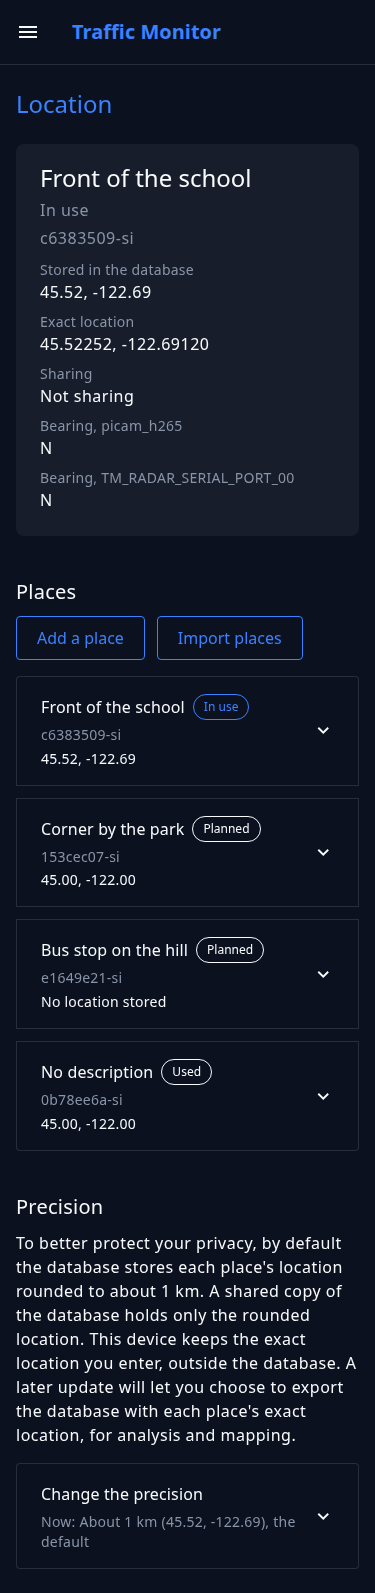
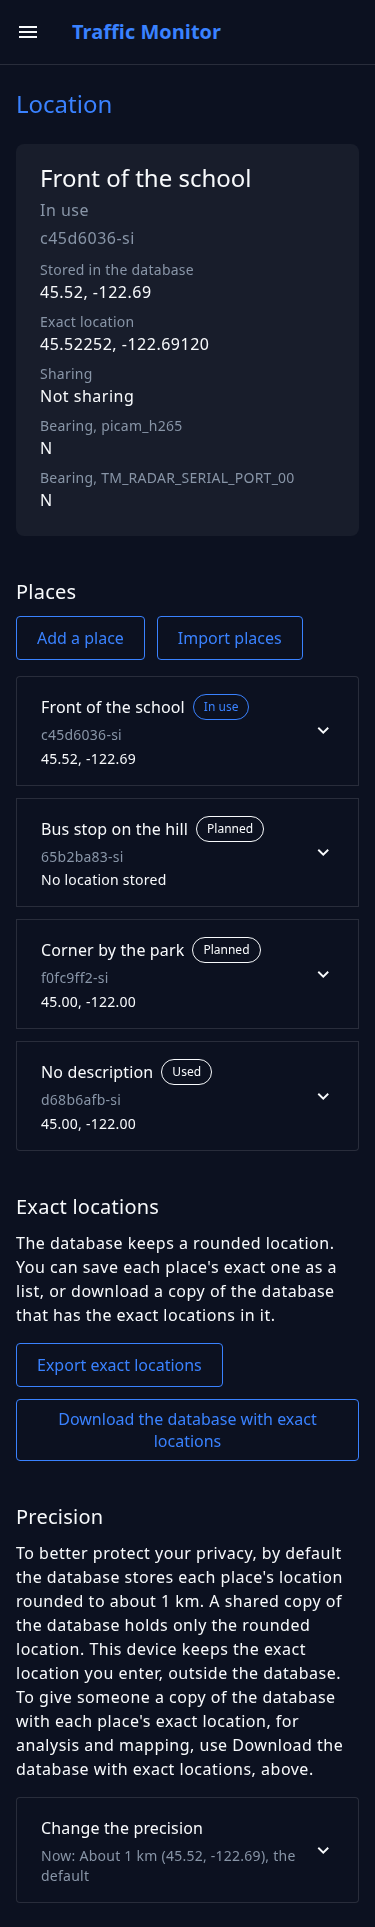
Document the database copy with exact locations
The Location page's operator page gains a section on the new download (what it is for, the confirmation, the file's name, the table and view it adds with an example query that was run, and which places are in it), and the Sharing and Data export pages and the Precision and What leaves the device parts of the Location page point to it. The data page describes survey_exact_location and deployment_exact, which exist only in such a copy, and the developer page describes the route, the ticket, and the Node-RED steps. CLAUDE.md gets the seventh internal endpoint, the download step and its one CREATE exception, and the Location line; the Location page's screenshot is retaken to show the new section, and an out-of-date UI review note is tagged.

Assisted-by: Claude Code 2.1.325 (CLI)
AI-Model: Claude Sonnet 5.5 (claude-sonnet-5-5)
AI-Effort: high
AI-Role: drafted

diff --git a/CLAUDE.md b/CLAUDE.md
@@ -10,7 +10,7 @@ Traffic Monitor turns a Raspberry Pi 5 with a camera, OmniPreSense Doppler radar
 - `container/`: Jinja templates per container (Containerfile, Podman Quadlet units, env/config files). `docker/` is a symlink to it.
 - `container/node-red-tm/data/flows.json`: nearly all application logic (Node-RED flows).
 - `utils/`: helper scripts and configs that get copied to `{{ tmsetup_codedir }}/utils` on the device, and the NetworkManager drop-ins the `wifi` tag installs from there (`82-nm-connectivity-check.conf`, `88-z-wifi-powersave-off.conf`). The Wi-Fi itself is not here: the hotspot is `tm-control/jobs/tm-hotspot-setup` and `tm-network-retry`, with the role's `templates/network/`.
-- `tm-control/`: the Traffic Monitor control app (spec in `design/specs/`, contributor docs in `docs/development/tm-control.md`): the home page, setup, the one login in front of every app, the Detection page (`modules/detection`, the `/models` routes: list, upload, use, download, delete the models in Frigate's `model_cache`), the Cameras page (`modules/cameras`, the admin-only `/cameras` routes: add, point, edit settings, switch Frigate's detection for a camera (through Frigate's API; no Frigate file is written), re-key to a neutral name, remove an entry), the Location page (`modules/location`, the admin-only `/surveys` routes: places, Deploy here, precision, corrections, CSV import), the Sharing page (`modules/sharing`, `GET`/`PUT /sharing`: the server, the access token, and three choices about what the device uploads, each recorded with the notice it was made under; the admin-only `POST /sharing/reviewed`), and the Network page (`modules/network`, the `/network` routes: the unit's addresses for everyone signed in, and for admins the hotspot's password, name, hidden setting, and on/off, plus the Wi-Fi networks: Refresh, Forget, the saved order, and Join, which tests a network and switches to it after a countdown). `backend/` is the FastAPI app and the `tm-control` command (`serve`, `migrate`, the setup-code commands, `reset-admin`, `card`), installed root-owned to `/usr/local/lib/traffic-monitor/tm-control` and `/usr/local/bin/tm-control`. `ui/` is the Vue 3 + Vuetify 3 UI (see its README); first run there has five steps, the fifth being Sharing. `jobs/` holds root job scripts, installed to `/usr/local/libexec/traffic-monitor/`: the `tm-job-*` scripts that `tm-control` starts, and `tm-hotspot-setup` and `tm-network-retry`, which the installer and a timer run.
+- `tm-control/`: the Traffic Monitor control app (spec in `design/specs/`, contributor docs in `docs/development/tm-control.md`): the home page, setup, the one login in front of every app, the Detection page (`modules/detection`, the `/models` routes: list, upload, use, download, delete the models in Frigate's `model_cache`), the Cameras page (`modules/cameras`, the admin-only `/cameras` routes: add, point, edit settings, switch Frigate's detection for a camera (through Frigate's API; no Frigate file is written), re-key to a neutral name, remove an entry), the Location page (`modules/location`, the admin-only `/surveys` routes: places, Deploy here, precision, corrections, CSV import, and a database copy that holds the places' exact locations), the Sharing page (`modules/sharing`, `GET`/`PUT /sharing`: the server, the access token, and three choices about what the device uploads, each recorded with the notice it was made under; the admin-only `POST /sharing/reviewed`), and the Network page (`modules/network`, the `/network` routes: the unit's addresses for everyone signed in, and for admins the hotspot's password, name, hidden setting, and on/off, plus the Wi-Fi networks: Refresh, Forget, the saved order, and Join, which tests a network and switches to it after a countdown). `backend/` is the FastAPI app and the `tm-control` command (`serve`, `migrate`, the setup-code commands, `reset-admin`, `card`), installed root-owned to `/usr/local/lib/traffic-monitor/tm-control` and `/usr/local/bin/tm-control`. `ui/` is the Vue 3 + Vuetify 3 UI (see its README); first run there has five steps, the fifth being Sharing. `jobs/` holds root job scripts, installed to `/usr/local/libexec/traffic-monitor/`: the `tm-job-*` scripts that `tm-control` starts, and `tm-hotspot-setup` and `tm-network-retry`, which the installer and a timer run.
 - `design/`: specs and implementation plans. Not published to the docs site.
 - `docs/`: source for docs.trafficmonitor.ai, built with Material for MkDocs (`mkdocs.yml` holds the nav) and published by `.github/workflows/docs.yml` with mike to the `gh-pages` branch: pushes to `dev` → `/dev/`, release tags → `/vX.Y.Z/` and `/latest/`. Use admonitions (`!!! info`), relative `.md` links, and Markdown images in `docs/assets/images/`. New pages must be added to `nav:`, whose sections are named for the reader's job, and a page outside the folders the `llmstxt` plugin already lists also to that plugin's matching section, which generates `llms.txt`. Keep file paths stable when moving a page in the nav; a path that does change needs a row in the `moved` map in `docs-site/pages-root/404.html`. Build tooling is in `docs-site/`: hash-pinned requirements, theme override, and root `404.html` that redirects GitBook-era URLs.
 
@@ -132,7 +132,7 @@ sudo systemctl restart frigate-tm-build.service  # re-run an image build (each <
 - tm-control (`tm-control.service`) runs on the host, not in the pod, on `127.0.0.1:8090` (`tmsetup_tm_control_port`). It owns users (one admin, any number of viewers), sessions (`tm_session` cookie, 7-day rolling, per-user epoch), the claim, and the EULA record. It also serves the Status page (`GET /status`: each module's `check_groups`, all run at the same time with a 5-second timeout per group and listed in `MODULES` order, cached 5 seconds; a check that raises or hangs becomes `unknown`), restarts listed units, sets the date, time zone, and NTP (a zone change restarts the pod and revproxy so the containers see it), and reboots or powers off, all through polkit. nginx checks every app path with `auth_request`:
   - Each app location includes `tm/snippets/auth-viewer.conf` or `auth-admin.conf`. They call the internal `/_auth` or `/_auth_admin` (`tm-control-auth.conf`), which `GET /api/v1/auth/verify` with `X-Original-URI`, `X-TM-Required-Role`, and `X-Forwarded-For $remote_addr` (the browser's address, nothing the client sent), and no `Authorization` header.
   - verify answers 200 with `X-TM-User`, `X-TM-Role`, `X-TM-Frigate-Secret`, and for admins `X-TM-NR-Token`; 401 with `X-TM-Redirect` (`/setup`, `/login?next=…`, `/welcome` for an admin or `/waiting` for a viewer while a new EULA waits), which nginx turns into a 302; or 403. The snippets pass verify's refreshed `Set-Cookie` through, so an app location must not add its own `add_header`.
-  - Download links, for Android's sign-in window, which hands a download to a helper that sends no cookie: `POST /api/v1/auth/download-link` (admins) makes a one-time link for `/storefiles` (`DownloadGrants` in `core/auth.py`, in memory, kept under the token's SHA-256). Without a session, verify passes `/storefiles?files=…&tm_token=…` (exactly those two parameters) on admin locations only, once, within 600 s (monotonic clock), from the client address and for the `files` it was made for, while the user still exists as an admin with the same session epoch and the EULA is accepted. It answers 200 with `X-TM-User` and `X-TM-Role` only (no secret, no cookie), and a 401's `next=` leaves the token out. The two Dashboard download templates in `flows.json` ask for a link and fall back to the plain address. nginx's access log holds the token; it is named `tm_token` so that `redact()` hides it in the diagnostics.
+  - Download links, for Android's sign-in window, which hands a download to a helper that sends no cookie: `POST /api/v1/auth/download-link` (admins) makes a one-time link for `/storefiles` (`DownloadGrants` in `core/auth.py`, in memory, kept under the token's SHA-256). Without a session, verify passes `/storefiles?files=…&tm_token=…` (exactly those two parameters) on admin locations only, once, within 600 s (monotonic clock), from the client address and for the `files` it was made for, while the user still exists as an admin with the same session epoch and the EULA is accepted. It answers 200 with `X-TM-User` and `X-TM-Role` only (no secret, no cookie), and a 401's `next=` leaves the token out. The two Dashboard download templates in `flows.json` ask for a link and fall back to the plain address. The Location page's database copy is the one link made by its own route (`POST /api/v1/surveys/database-copy`, `files=tmdb-exact-<ticket>`), with the same `DownloadGrants.issue`. nginx's access log holds the token; it is named `tm_token` so that `redact()` hides it in the diagnostics.
   - When tm-control doesn't answer, `error_page 500 =503` serves the rescue page `html/unavailable.html` (Cockpit on `:9090`, `sudo systemctl restart tm-control.service`). An app's own 502/504 stays nginx's normal page.
   - verify is unreachable from the network: `location ^~ /api/v1/auth/verify { return 404; }`, `/api/` clears `X-TM-Required-Role`, and verify answers 404 without it.
   - Frigate is reached on 8971 with proxy auth: nginx sends `X-Forwarded-User`, `X-Forwarded-Groups` (the role), and `X-Proxy-Secret` (from verify, checked against `FRIGATE_PROXY_AUTH_SECRET` in `frigate.env`), and blanks `Remote-User`/`Remote-Groups`/`Remote-Role`. Frigate's own login is off (`auth: enabled: false`), and its `logout_url` is tm-control's `/logout`. Node-RED inside the pod still calls Frigate's unauthenticated `:5000`.
@@ -159,14 +159,15 @@ sudo systemctl restart frigate-tm-build.service  # re-run an image build (each <
 - UI tabs:
   - `ui-monitoring` is the legacy node-red-dashboard (`/ui`) and also feeds the Dashboard 2.0 tabs.
   - `Dashboard 2 - Monitoring`, `ui-movements`, and `ui-database` are FlowFuse Dashboard 2.0 pages under `/dashboard`. The `ui-database` page handles data export and download.
-- Storage is one SQLite DB at `/db/tmdb.sqlite` in the container (`TM_DATABASE_PATH_TMDB`). The schema is defined by numbered SQL migrations in `container/node-red-tm/schema/migrations/`, not by the flows. `tmdb_migrate.py` applies pending ones as `ExecStartPre` of `node-red-tm.service`, before Node-RED opens the DB, and records the version in `PRAGMA user_version` (see that directory's README). A schema change needs a new migration and a regenerated `schema.sql`; never add `CREATE`/`ALTER TABLE` nodes to the flows. Tables and payloads are documented in `docs/data-and-payloads/`; keep them in sync.
+  - Its download group (`Dashboard 2 - Compress & Download 1 or More Files`) also serves the Location page's database copy: `GET /storefiles?files=tmdb-exact-<ticket>` (made by `POST /api/v1/surveys/database-copy`, which sends the list under the ticket first). "Validate filenames, setup tar" claims the ticket's list at the start of the request (a ticket is good for 600 s and not single-use, because Android's sign-in window fetches a link twice; an expired one is a 404) into the flow's `exactCopyPlaces` keyed by the copy's folder, and the unchanged `VACUUM INTO` copy runs. Then "write exact locations into the copy" (before "zip files") opens only that throwaway copy, adds the table `survey_exact_location` (`survey_id`, `lat`, `lon`) and the view `deployment_exact` (`deployment` plus `exact_lat`, `exact_lon`), and renames the file to `tmdb-exact-locations.sqlite`; `deployment` is never changed. Only that node uses `global.get("sqlite")` (`node:sqlite`, put in `functionGlobalContext` by `settings.js`; `null` without it, and the node then refuses), never on `tmdb.sqlite` (it refuses the path `TM_DATABASE_PATH_TMDB` names), and no statement that carries the list runs on the flows' shared database connection. "catch database copy" covers it: a failure removes the copy and the claimed list and answers 500 with a fixed text. The archive is `<hostname>_<time>_tmdb-exact-locations.tar.gz`.
+- Storage is one SQLite DB at `/db/tmdb.sqlite` in the container (`TM_DATABASE_PATH_TMDB`). The schema is defined by numbered SQL migrations in `container/node-red-tm/schema/migrations/`, not by the flows. `tmdb_migrate.py` applies pending ones as `ExecStartPre` of `node-red-tm.service`, before Node-RED opens the DB, and records the version in `PRAGMA user_version` (see that directory's README). A schema change needs a new migration and a regenerated `schema.sql`; never add `CREATE`/`ALTER TABLE` nodes to the flows. The one exception is the `CREATE TABLE` and `CREATE VIEW` that "write exact locations into the copy" runs on a database download's throwaway copy, never on `tmdb.sqlite`. Tables and payloads are documented in `docs/data-and-payloads/`; keep them in sync.
 
 **Cross-component name contracts.** A mismatch fails silently:
 - A Frigate camera name (default `picam_h265`) must match the `frigate_camera` of a `sensors.cameras` entry in the Node-RED `config.yml`, or, for an entry without one, its key. The key is the neutral name that `events.camera`, `deployment.sensorName`, `tm/event(s)`, ThingsBoard, and Plate Recognizer carry; Frigate's name stays on the device: in Node-RED it lives only in the `frigate_cameras` and `camera_labels` globals ("init config defaults" takes `frigate_camera` out of `global.config`), and Copy diagnostics replaces it. "init config defaults" sets three globals last, `frigate_cameras` (Frigate's name to key), `camera_labels` (the pickers' labels), and `tm_warned` (once-per-load warnings), and "append config" maps each event's camera to its key; `modules/cameras/state.py::compare` is the one comparison behind the Cameras page and the `config.cameras` and `config.zones` checks. Events from a Frigate camera no entry points at, or from a disabled entry, are not recorded.
 - Frigate zone names are hard-coded in the flows: `zone_capture` (counts), `zone_radar` (which events feed the speed statistics, the latest-observation cards, and Plate Recognizer), `zone_near`/`zone_far` (direction). Speed itself is attached to any moving event that entered any zone.
 - Radar names are the env var names `TM_RADAR_SERIAL_PORT_00..03` from `node-red-tm.env`. They're used as keys under `sensors.radars` and as `camera_radar` values.
 - The Node-RED editor token: `verifyProxyToken` in `container/node-red-tm/data/settings.js` and `NodeRedToken` in `tm-control/backend/tm_control/core/auth.py` must agree on the format (`base64url(JSON {u, r, exp})` `.` `base64url(HMAC-SHA256)`, no padding). Change both together; `script/tests/test_node_red_settings.py` pins it (its JS cases need `node`).
-- Node-RED's internal status: `GET /tm-internal/status` on `127.0.0.1:1880` (a flow on `init-config`) checks `X-TM-Internal-Token` against `TM_INTERNAL_TOKEN` in `node-red-tm.env` (secret `node_red_internal_token`) and refuses everything when it's unset. tm-control reads it (`adapters/nodered.py`) for the Node-RED, config, schema, and radar checks; its JSON fields (`uptime_seconds`, `config.errors`, `schema_version`, `radars.<name>.port_open`/`last_reading_at`, `upload.enabled`/`last_ok_at`/`last_failure_at`/`last_failure`) are the contract, pinned by `script/tests/test_node_red_flows.py` and `tests/fixtures/nodered_status.json`. `nodered.conf` denies `/nr/tm-internal/` in any letter case (Node-RED matches paths case-insensitively). The Location module calls six more with the same token: `GET /tm-internal/deployments?survey_id=`, `GET /tm-internal/surveys/usage`, `GET /tm-internal/surveys/:id/events`, `POST /tm-internal/deployments/precision`, and the two corrections, `POST /tm-internal/surveys/:id/location` (re-rounds the survey's rows, each at its own `location_precision`) and `POST /tm-internal/deployments/:id/bearing`.
+- Node-RED's internal status: `GET /tm-internal/status` on `127.0.0.1:1880` (a flow on `init-config`) checks `X-TM-Internal-Token` against `TM_INTERNAL_TOKEN` in `node-red-tm.env` (secret `node_red_internal_token`) and refuses everything when it's unset. tm-control reads it (`adapters/nodered.py`) for the Node-RED, config, schema, and radar checks; its JSON fields (`uptime_seconds`, `config.errors`, `schema_version`, `radars.<name>.port_open`/`last_reading_at`, `upload.enabled`/`last_ok_at`/`last_failure_at`/`last_failure`) are the contract, pinned by `script/tests/test_node_red_flows.py` and `tests/fixtures/nodered_status.json`. `nodered.conf` denies `/nr/tm-internal/` in any letter case (Node-RED matches paths case-insensitively). The Location module calls seven more with the same token: `GET /tm-internal/deployments?survey_id=`, `GET /tm-internal/surveys/usage`, `GET /tm-internal/surveys/:id/events`, `POST /tm-internal/deployments/precision`, and the two corrections, `POST /tm-internal/surveys/:id/location` (re-rounds the survey's rows, each at its own `location_precision`) `POST /tm-internal/deployments/:id/bearing`, and `POST /tm-internal/database/exact-copy` (body `{ticket, places: [{survey_id, lat, lon}]}`, 1 to 10000 places; Node-RED keeps the list in memory only, under the ticket, for 600 s (the life of a download link) and at most four lists; 204 with no body; the validator removes the posted list from `msg.req.body` on both outputs, and no coordinate is put on a message, logged, or put in an error).
 - The `sharing:` block of Node-RED's `config.yml` (`target`, `host`, `exact_location`, `public_map`, `notice_version`) is written only by the control app, from `sharing_consents` (`modules/sharing/follow.py` keeps it equal to the rows on every reconcile and on `GET`/`PUT /sharing`); a hand edit grants nothing, and a missing block means the rounded location only: next to the upload on, it withdraws the exact location and the map and is written back with both off. Node-RED reads it, with a host rule (`normalize_host`) that the flows' "init config defaults" and "upload gate" and `modules/sharing/consents.py` repeat. The exact location leaves only with `exact_location: true` for a matching `thingsboard.host` over https, and the notice's version (`NOTICE.md`) is recorded for the maintainer's server. `script/tests/test_node_red_flows.py` pins the gate's lists and the `sharing` defaults in "init config defaults"; `tmsetup.sh -f` renders no `sharing:` block and the upload off, which withdraws every choice at the next follow.
 - verify's status codes and `X-TM-*` headers are a contract with `container/revproxy/tm/snippets/auth-*.conf.j2` and the location files that read the `$tm_*` variables. Its download-link answer is a contract with `tm-control-auth.conf.j2` (`X-Forwarded-For`) and the two Dashboard download templates in `flows.json` (`26223a9168dd0050`, `70073189458c7166`), which `script/tests/test_node_red_flows.py` pins.
 

diff --git a/docs/use/location.md b/docs/use/location.md
@@ -1,5 +1,5 @@
 ---
-description: Record where a Traffic Monitor is, choose how precisely the database stores its location, plan places, move or turn the device, correct a wrong location or bearing, and import places from a CSV file.
+description: Record where a Traffic Monitor is, choose how precisely the database stores its location, plan places, move or turn the device, correct a wrong location or bearing, import places from a CSV file, and export or download the exact locations.
 ---
 
 # Places and location
@@ -18,9 +18,9 @@ The exact location is kept in the control app and in Node-RED's settings file, [
 
 ## The Location page
 
-**Location** is in the control app's menu, after **Cameras**. The card at the top shows the place in use: its description, its id, the location as the database stores it, the exact location, what the device [shares](sharing.md), and the way each sensor faces. Then come the list of places, the [exact locations](#export-the-exact-locations), and, last, the [precision](#choose-the-precision).
+**Location** is in the control app's menu, after **Cameras**. The card at the top shows the place in use: its description, its id, the location as the database stores it, the exact location, what the device [shares](sharing.md), and the way each sensor faces. Then come the list of places, the exact locations ([a list](#export-the-exact-locations) and [a copy of the database](#download-the-database-with-exact-locations)), and, last, the [precision](#choose-the-precision).
 
-![The Location page on a phone: the place in use with its stored and exact location, the list of places, and the Precision section at the end, with its choices closed](../assets/images/location-page.png){ width="300" }
+![The Location page on a phone: the place in use with its stored and exact location, the list of places, the Exact locations section with its two buttons, and the Precision section at the end, with its choices closed](../assets/images/location-page.png){ width="300" }
 
 Each place in the list shows its description, or **No description**, its mark (**In use**, **Planned**, or **Used**), its id, and its location as the database stores it. Select a place to open it. An open place shows:
 
@@ -103,7 +103,47 @@ The place in use can't be deleted. Deploy another place first.
 
 **Export exact locations**, above the precision, saves a CSV file with one line for each place: its id, its exact latitude and longitude (empty for a place with no location), its mark, and when it was added and last changed. It has no descriptions. Use it to match a copy of the database, which holds each place's id and rounded location, with where the device really was, for analysis and mapping.
 
-The page asks first, because the file says exactly where the device has been, and anyone you give it to can match it to the database by place id.
+The page asks first, because the file says exactly where the device has been, and anyone you give it to can match it to the database by place id. To get the exact locations inside a copy of the database instead, see [Download the database with exact locations](#download-the-database-with-exact-locations).
+
+## Download the database with exact locations
+
+**Download the database with exact locations**, next to **Export exact locations**, saves a copy of the database that also holds where the device was. Use it when the person who analyzes the data should map it at the real places, and a separate list of places to match by id would be one more step.
+
+Choose the button and read the question. It says that the copy holds the exact location of each place the device has been at, that the database on the device keeps its rounded locations, and that you should give the copy only to someone who should know where the device was. Choose **Download**. The device makes a consistent copy of the database first, so the download starts after a wait of a minute or two, longer for a large database, and the page says so. The copy needs free space about the size of the database, as the [Data export](../ui/database.md#download-the-database) download does. If the device can't make the copy, the browser shows the reason instead of a file.
+
+The button is off, with the reason under it, until a place the device has been at, one marked **In use** or **Used**, has a location. A planned place doesn't count, because the device was never there.
+
+The file is named `<hostname>_<time>_tmdb-exact-locations.tar.gz` and holds `tmdb-exact-locations.sqlite`. The name says what it is, so nobody takes it for the database you can share. On a phone joined to the unit's hotspot, see [Phones](wifi-hotspot.md#phones) for how downloads save.
+
+### What the copy adds
+
+The copy is the database as it is, with two more things in it:
+
+* The table `survey_exact_location` has one row for each place: its id, and its exact latitude and longitude.
+* The view `deployment_exact` is the `deployment` table with two more columns, `exact_lat` and `exact_lon`, from the place the row names.
+
+The `deployment` table itself is not changed. Its `lat` and `lon` still hold the location rounded to the [precision](#choose-the-precision) stored with each row, so a script that reads them gets the rounded location from every file, and an exact point can't be picked up by mistake. To list where the device was and when, with each deployment's sensor, start, end, and exact point:
+
+```sql
+SELECT sensorName,
+       datetime(entryStartDateTime / 1000, 'unixepoch') AS started,
+       datetime(entryEndDateTime / 1000, 'unixepoch') AS ended,
+       exact_lat, exact_lon
+FROM deployment_exact
+ORDER BY entryStartDateTime;
+```
+
+The times are in UTC, and `ended` is empty for a deployment that is still running. A place has one exact point, so this covers every place the device has been at, past ones included, and not only the one in use.
+
+The table holds the places the device has been at that have a location. A planned place is never in it, and neither is a place the database doesn't name. The view's `exact_lat` and `exact_lon` are empty for:
+
+* A place with no location.
+* A place the control app no longer has, because you deleted it.
+* A deployment from [before any place was recorded](#the-location-page), which names no place.
+
+A [correction](#correct-a-wrong-location-or-bearing) shows in the copy as corrected: the place has one point, and a corrected place has the new one, with its rows' rounded location corrected the same way. A copy you downloaded earlier keeps the values it had, so two copies of the same device can differ, and the newer one is right. The copy doesn't hold the record of corrections.
+
+The database on the device is unchanged: it never holds the table or the view, and the **Download the database** button on the [Data export](../ui/database.md#download-the-database) page still saves rounded locations only. The device removes its working copy when the download ends. The file you saved says where the device was, so give it only to people who should know. The table holds what the [`exact_location`](../data-and-payloads/data-overview.md#the-exact-location-in-a-database-copy) attribute holds when you share the exact location.
 
 ## Choose the precision
 
@@ -115,7 +155,7 @@ The page asks first, because the file says exactly where the device has been, an
 | **About 10 km** (45.5, -122.7) | One decimal place, about a city |
 | **About 1 km** (45.52, -122.69), the default | Two decimal places, about a neighborhood |
 
-The exact location is never stored in the database. It stays on this device, and leaves it only if you [share it](sharing.md) or [export it](#export-the-exact-locations). Choose one and **Save**.
+The exact location is never stored in the database. It stays on this device, and leaves it only if you [share it](sharing.md), [export it](#export-the-exact-locations), or [download a copy of the database that holds it](#download-the-database-with-exact-locations). Choose one and **Save**.
 
 * **A coarser choice** applies to the deployments running now at once. Rows stored before them keep their precision unless you tick **Also round the rows already stored**, which asks first, because it can't be undone.
 * **No location stored** removes the stored location from the deployments running now at once. Tick **Also remove it from the rows already stored** to remove it from every row in the database as well, which also asks first. The exact location stays on the device, but the database can't get the rounded values back.
@@ -124,8 +164,8 @@ The exact location is never stored in the database. It stays on this device, and
 ## What leaves the device
 
 * A place's description, and the reasons you give for corrections, never leave the device.
-* A copy of the database holds the place's id and its location at the stored precision: about a neighborhood at about 1 km, or about a city at about 10 km. The exact location isn't in it.
-* Data you [share](sharing.md) carries the location as the database stores it. The exact location goes only if you tick **Share the exact location**, and only for the place in use. The file from [**Export exact locations**](#export-the-exact-locations) goes where you send it.
+* A copy of the database holds the place's id and its location at the stored precision: about a neighborhood at about 1 km, or about a city at about 10 km. The exact location isn't in it, unless you made the copy with [**Download the database with exact locations**](#download-the-database-with-exact-locations), which adds each place's exact location in a table of its own.
+* Data you [share](sharing.md) carries the location as the database stores it. The exact location goes only if you tick **Share the exact location**, and only for the place in use. The file from [**Export exact locations**](#export-the-exact-locations), and the copy from [**Download the database with exact locations**](#download-the-database-with-exact-locations), go where you send them.
 * A correction or a coarser precision changes the device's own records only. Copies of the database already downloaded, and data already uploaded, keep the values they had.
 
 To change these values in `config.yml` by hand, see [Edit the location by hand](../configuration/node-red-config.md#edit-the-location-by-hand).

diff --git a/docs/development/tm-control.md b/docs/development/tm-control.md
@@ -77,7 +77,7 @@ Android's sign-in window, which on Android 17 is the only browser that can reach
 2. The browser's own request has a session, so verify checks it as usual and leaves the link unused.
 3. The helper's request has no session. verify lets it through as the administrator only when the address is exactly `/storefiles` with `files` and `tm_token` and nothing else, on an admin location, within 600 seconds, from the address the link was made for (`X-Forwarded-For`, which the `/_auth` locations set to nginx's own `$remote_addr`), and for the same `files`. The user must still be an administrator with the same sessions, and the current license agreement must be accepted. The answer carries `X-TM-User` and `X-TM-Role` only: no Frigate secret, no Node-RED token, no cookie.
 
-The first request without a session that presents a token spends it, whether or not the rest matched. A login redirect leaves the token out of its `next=`. nginx's access log records the token; the parameter is named `tm_token` so that the diagnostics download hides its value with every other key ending in `token`. The two download templates live in `flows.json` (the ui-templates "Button to trigger download request" and "redirect to storefiles URL"), and `script/tests/test_node_red_flows.py` checks that they ask for the same link.
+The first request without a session that presents a token spends it, whether or not the rest matched. A login redirect leaves the token out of its `next=`. nginx's access log records the token; the parameter is named `tm_token` so that the diagnostics download hides its value with every other key ending in `token`. The Location page's database copy is the one link the page doesn't ask `download-link` for: `POST /api/v1/surveys/database-copy` makes it itself, in the same way, for the `files` name it also sends Node-RED the list for. The two download templates live in `flows.json` (the ui-templates "Button to trigger download request" and "redirect to storefiles URL"), and `script/tests/test_node_red_flows.py` checks that they ask for the same link.
 
 ## Backend layout
 
@@ -191,6 +191,7 @@ The `location` module serves the [Location page](../use/location.md). It's for a
 | `POST /surveys/{id}/location`, `POST /surveys/{id}/deployments/{deployment_id}/bearing` | Corrections: the place's point, re-rounded in Node-RED's rows, or one deployment's bearing; each records a row in `survey_corrections` |
 | `GET /surveys/{id}/deployments`, `GET /surveys/{id}/events` | A place's deployments, and its event count and span, from Node-RED |
 | `POST /surveys/import` | Planned places from a CSV: a dry run lists what it read, and the import creates all or none |
+| `POST /surveys/database-copy` | Starts a [database copy with the exact locations](#a-database-copy-with-the-exact-locations): answers `{url, places}`, a one-time `/storefiles` link and how many places the copy will hold, or 409 `no_exact_locations` |
 
 The rules:
 
@@ -199,7 +200,7 @@ The rules:
 * `reconcile.py` keeps the store and the file in step. It runs at claim, on every `GET /surveys`, and before the checks of every status report that isn't the cached one (`StatusCache`'s `prepare`), under `app.state.reconcile_lock`, which every write also holds. The status report waits at most two seconds for that lock, skips the run when a write holds it longer, and logs any error by its class name. Once per device it makes the first place: on a fresh device (no coordinates, no `survey_id`, and no backup), **First location** with no coordinates; on an upgraded one, a used place for each survey in the newest `tmdb-v0-*` or `tmdb-v1-*` backup in `node-red-tm/db/backup/`, opened read-only and immutable, then the place in use from the file. It waits until Node-RED reports schema version 2. An unreadable backup is skipped with one log line. Every run after that follows hand edits of the file, as [Edit the location by hand](../configuration/node-red-config.md#edit-the-location-by-hand) describes.
 * No coordinate, description, or reason is logged, audited, or put in an error message. Audit rows carry the survey id, and a deployment id or the precision.
 
-The module calls six Node-RED endpoints, besides `/tm-internal/status`, on `127.0.0.1:1880` with `X-TM-Internal-Token`. Flows on the `init-config` tab serve them, and `script/tests/test_node_red_flows.py` pins them:
+The module calls seven Node-RED endpoints, besides `/tm-internal/status`, on `127.0.0.1:1880` with `X-TM-Internal-Token`. Flows on the `init-config` tab serve them, and `script/tests/test_node_red_flows.py` pins them:
 
 | Endpoint | What it does |
 |---|---|
@@ -209,6 +210,20 @@ The module calls six Node-RED endpoints, besides `/tm-internal/status`, on `127.
 | `POST /tm-internal/deployments/precision` | Rounds every stored row to a coarser precision, or clears the coordinates for `none` |
 | `POST /tm-internal/surveys/<id>/location` | Rewrites a survey's stored coordinates from a new point, each row at its own precision |
 | `POST /tm-internal/deployments/<id>/bearing` | Rewrites one deployment's bearing |
+| `POST /tm-internal/database/exact-copy` | Keeps a list of places' exact locations in memory under a ticket, for one database copy; 204 with no body |
+
+#### A database copy with the exact locations
+
+`POST /surveys/database-copy` is the one place the exact locations leave tm-control for a database file, and neither side opens the other's database to do it.
+
+1. The route sends only the places marked in use or used that have both coordinates, so a planned place is never sent. With none, it answers 409 `no_exact_locations` and sends nothing.
+2. It makes a ticket, 32 random hex characters, and posts it with the places (`survey_id`, `lat`, `lon`) to `POST /tm-internal/database/exact-copy`. Node-RED checks the body (1 to 10,000 places, each id and finite coordinate valid, no id twice) and keeps the list in memory under the ticket for 600 seconds, the life of a download link. It never writes the list to disk, logs it, or puts it on a message, and it holds at most four lists, dropping expired ones first and then the one that expires soonest.
+3. The route asks `DownloadGrants` for a link for `files=tmdb-exact-<ticket>` and answers with it. The audit row `survey.database_copy` holds the number of places, and neither it, the log, nor an error holds a coordinate, a ticket, or a link.
+4. The page navigates to the link, so the download goes through nginx's admin check like any `/storefiles` download and works in Android's sign-in window. The ticket isn't single-use, because that window fetches the address twice and the second fetch is the one that saves, so a ticket serves every request in its ten minutes, each with a copy of its own.
+5. In the `ui-database` download group, "Validate filenames, setup tar" recognizes the single name `tmdb-exact-<ticket>` and takes the list at the start of the request. A large database takes minutes to copy, so a ticket that runs out meanwhile doesn't spoil a download that began. An unknown or expired ticket is a 404. The existing steps then make the `VACUUM INTO` copy, and "write exact locations into the copy" opens only that copy and writes a table `survey_exact_location` and a view `deployment_exact`, as [the data page](../data-and-payloads/data-overview.md#the-exact-location-in-a-database-copy) describes. It adds a place only if the copy's `deployment` table names it, refuses the file `TM_DATABASE_PATH_TMDB` names, and renames the file to `tmdb-exact-locations.sqlite` for the `tar` step. The archive is named `<hostname>_<time>_tmdb-exact-locations.tar.gz`.
+6. The function opens the copy with Node's built-in `node:sqlite`, which `settings.js` puts in `functionGlobalContext` as `sqlite` (`null` when the Node has none, so Node-RED still starts and the step refuses). A function node can't load it through its own module list: Node-RED strips the `node:` prefix and looks for a built-in named `sqlite`, and refuses the install. No statement that carries the list runs on the flows' shared database connection, and no other node uses `global.get("sqlite")`.
+7. When the rewrite fails, for example because the copy is missing, the Node has no `node:sqlite`, or the disk is full, the step throws an error with a fixed text. The existing "catch database copy" removes the copy and its claimed list, and answers 500, so nothing is served, and a copy without the exact locations never goes out under the exact name.
+8. The copy exists under `db/snapshot/` from the end of the copy step until the download ends. If the power fails meanwhile, it stays on the card until Node-RED next starts, when "remove database copies left by a restart" removes everything under `db/snapshot/`, before any download can begin.
 
 `tm-control migrate --node-red-config`, run by the installer, also brings `deployment:` up to date: it adds `database_precision: '2'` where it's missing, and removes `lat` and `lon` from a sensor's own `deployment:` block. The Location check (`location` in `modules/apps/contracts.py`) checks the same keys at run time.
 

diff --git a/docs/data-and-payloads/data-overview.md b/docs/data-and-payloads/data-overview.md
@@ -87,6 +87,20 @@ Free-text notes an operator adds on the [Data export](../ui/database.md) page, f
 | `comment` | TEXT | The note |
 | `commenter_name` | TEXT | Who wrote it |
 
+### The exact location in a database copy
+
+The database on the device never holds an exact location. A copy made with [**Download the database with exact locations**](../use/location.md#download-the-database-with-exact-locations) on the Location page does: the device adds a table and a view to the copy, and only to the copy. The database itself, and the download on the [Data export](../ui/database.md) page, never have them. The `deployment` table in the copy is unchanged, so its `lat` and `lon` stay rounded.
+
+`survey_exact_location` has one row for each place the device has been at that has a location:
+
+| Column | Type | Meaning |
+|---|---|---|
+| `survey_id` | TEXT, primary key | The place, as in `deployment.survey_id` |
+| `lat` | REAL | Latitude in decimal degrees, to five decimal places |
+| `lon` | REAL | Longitude in decimal degrees, to five decimal places |
+
+`deployment_exact` is the `deployment` table with two more columns after its own, `exact_lat` and `exact_lon`, taken from `survey_exact_location` by `survey_id`. They are empty for a row whose place has no row in the table: a place with no location, a place deleted from the Location page, and a deployment from before any place was recorded. A planned place is never in the table. The table holds what the `exact_location` attribute holds when the exact location is [shared](../use/sharing.md): a place's id and its coordinates. [Places and location](../use/location.md#what-the-copy-adds) has an example query.
+
 ### Schema versions
 
 The tables are defined by numbered migrations in the repository's [`container/node-red-tm/schema/`](https://github.com/glossyio/traffic-monitor/tree/main/container/node-red-tm/schema) folder, and `schema.sql` there shows the whole current schema. Each time the Node-RED service starts, it applies any migrations the database doesn't have yet and records the schema version in the database. Before it does, it saves a copy of the database in `/opt/traffic-monitor/node-red-tm/db/backup/` and keeps only the most recent copy. It makes no copy of a new database, or when the disk has less free space than about 1.2 times the database's size. It also makes none when the only migration to apply is the first, which only adds missing tables. You can read the version with `PRAGMA user_version;`.

diff --git a/docs/use/sharing.md b/docs/use/sharing.md
@@ -37,7 +37,7 @@ For Traffic Monitor's server, the page requires you to read the notice, and to t
 
 !!! info "The exact location is for you to give or keep"
 
-    The database stores the location rounded, so a shared copy of the database carries the rounded location only. The exact location leaves the device only under **Share the exact location**, or in the file the Location page's [**Export exact locations**](location.md#export-the-exact-locations) saves for you.
+    The database stores the location rounded, so a shared copy of the database carries the rounded location only. The exact location leaves the device only under **Share the exact location**, or in what you save from the Location page: the file from [**Export exact locations**](location.md#export-the-exact-locations), or the copy of the database from [**Download the database with exact locations**](location.md#download-the-database-with-exact-locations). You give those yourself, and nothing is sent.
 
 ## What the server already has
 

diff --git a/docs/ui/database.md b/docs/ui/database.md
@@ -21,6 +21,8 @@ Downloads the whole database as a compressed archive named `<hostname>_<time>_tm
 
 On a phone joined to the unit's hotspot, see [Phones](../use/wifi-hotspot.md#phones) for how downloads save on Android and on an iPhone.
 
+This download holds the location rounded, as the database stores it. To get a copy with each place's exact location in it, use [Download the database with exact locations](../use/location.md#download-the-database-with-exact-locations) on the Location page.
+
 Unpack the archive with `tar -xvzf` on Linux or Mac, or with [7-Zip](https://www.7-zip.org/) on Windows. Inside is `tmdb.sqlite`, which opens in [DB Browser for SQLite](https://sqlitebrowser.org/) or any SQLite library.
 
 ## Download JSON

diff --git a/tm-control/ui/README.md b/tm-control/ui/README.md
@@ -1370,6 +1370,8 @@ The first-run step and the Location page's "Exact locations" were checked the sa
   "Save and finish", so the two never look alike.
 - Looked at and kept: the Location page's Precision paragraph still says a later update will export the database with
   each place's exact location. The new file lists the places, not the database, so the sentence is still true.
+  (Since changed: the database copy now exists, and the paragraph points at Download the database with exact
+  locations.)
 - Looked at and kept: the export confirmation uses the primary colour, not the error colour used for deletes.
 
 #### Defaults rejected
